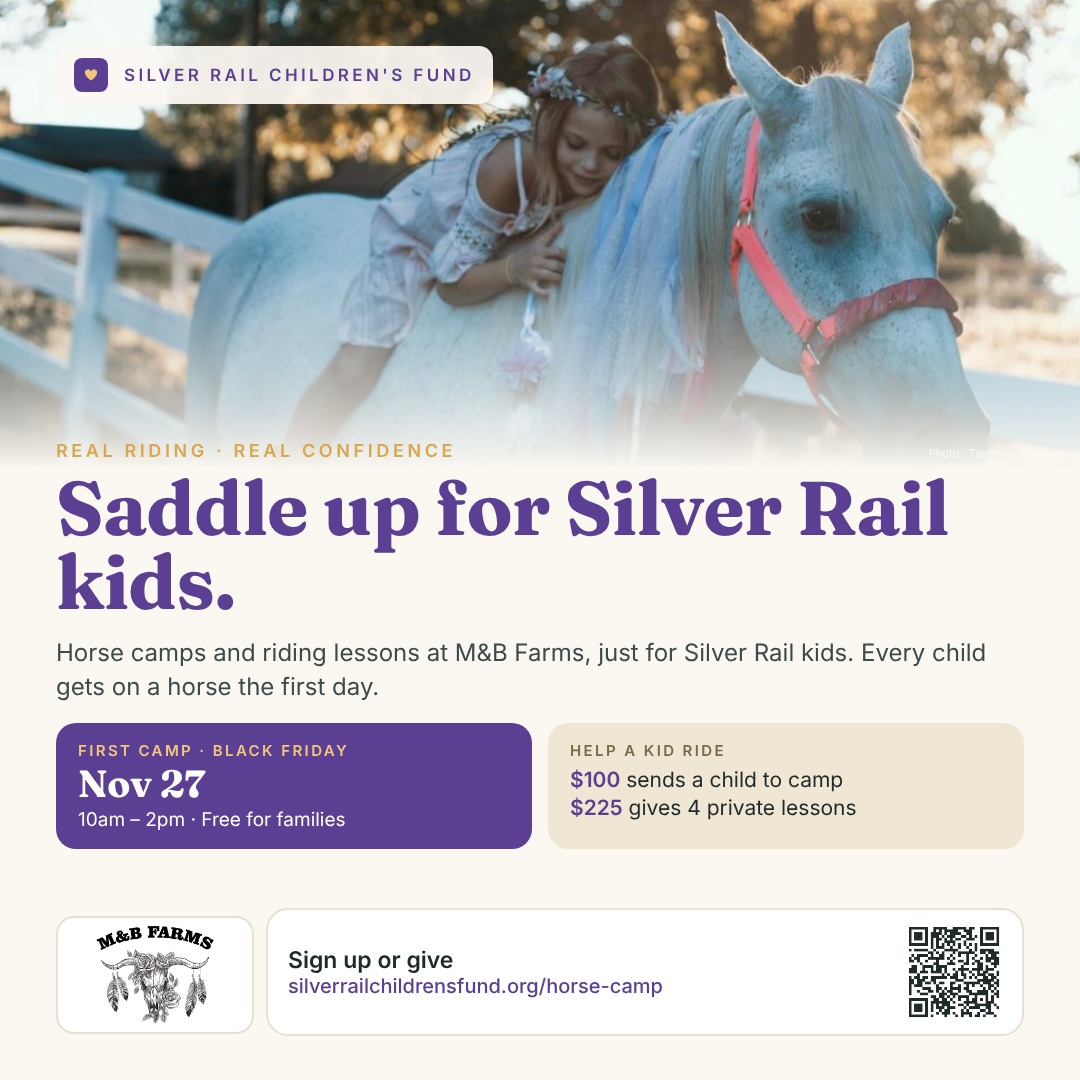
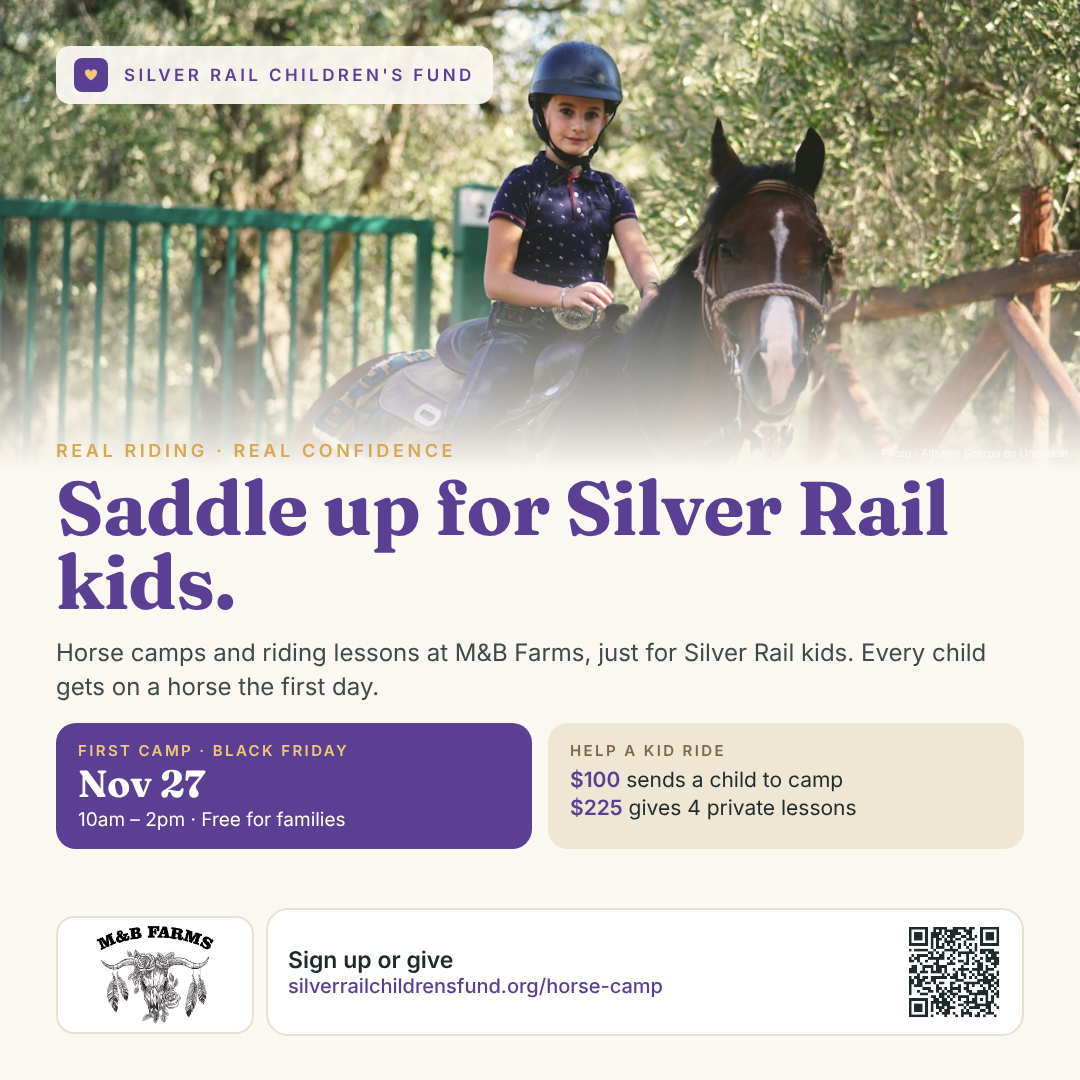
Horse camp: helmeted rider photo
Claude-Session: https://claude.ai/code/session_01H4F1UGVh7mP2zmvnm3WNaY

diff --git a/horse-camp.html b/horse-camp.html
@@ -187,8 +187,8 @@ footer.sf .sf-legal a{color:var(--ink-2)}
 
 <section id="why">
   <div class="wrap">
-    <div class="photo"><img src="assets/horse-camp-photo.jpg" alt="A young girl in a flower crown resting her head on a white horse"></div>
-    <p class="credit">Photo: Taylor on Unsplash</p>
+    <div class="photo"><img src="assets/horse-camp-photo.jpg" alt="A smiling girl in a riding helmet sitting on a bay horse"></div>
+    <p class="credit">Photo: Alfonso Scarpa on Unsplash</p>
     <h2>Real riding. Real confidence.</h2>
     <p style="max-width:760px">Some of our older kids are carrying October 15 in ways they are only starting to put into words. They need more than one more appointment. They need somewhere to go, something to be good at, and a reason to feel proud again.</p>
     <p style="max-width:760px">That is what a horse can do. Blue skies, fresh air, no screens, and a 1,000-pound animal that listens when you ask it to walk on. At M&amp;B Farms, kids don't just visit the horses. They ride. They learn to saddle and bridle their horse, pick its feet, and read how it is feeling. Every new skill is one more thing they can say "I did that" about.</p>
